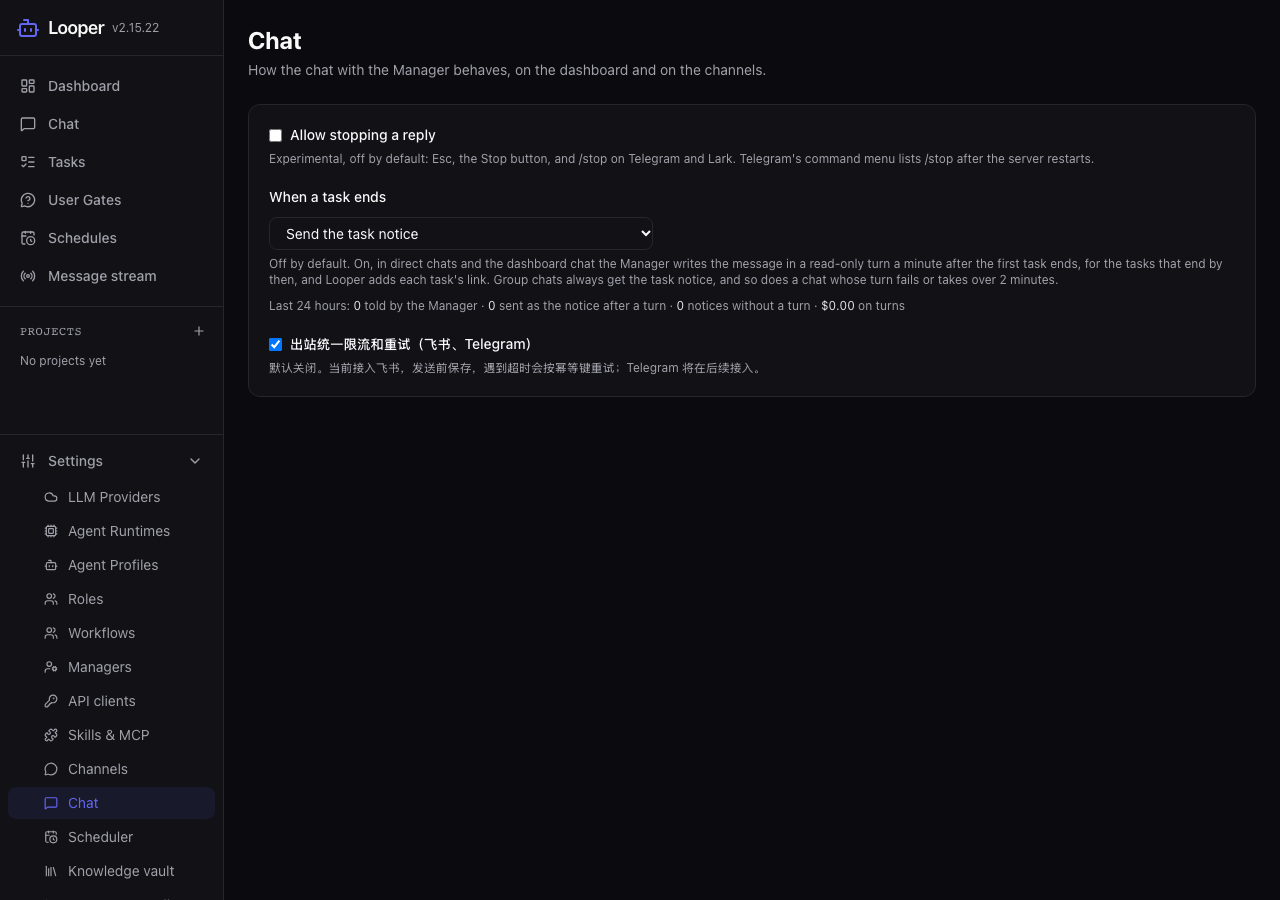
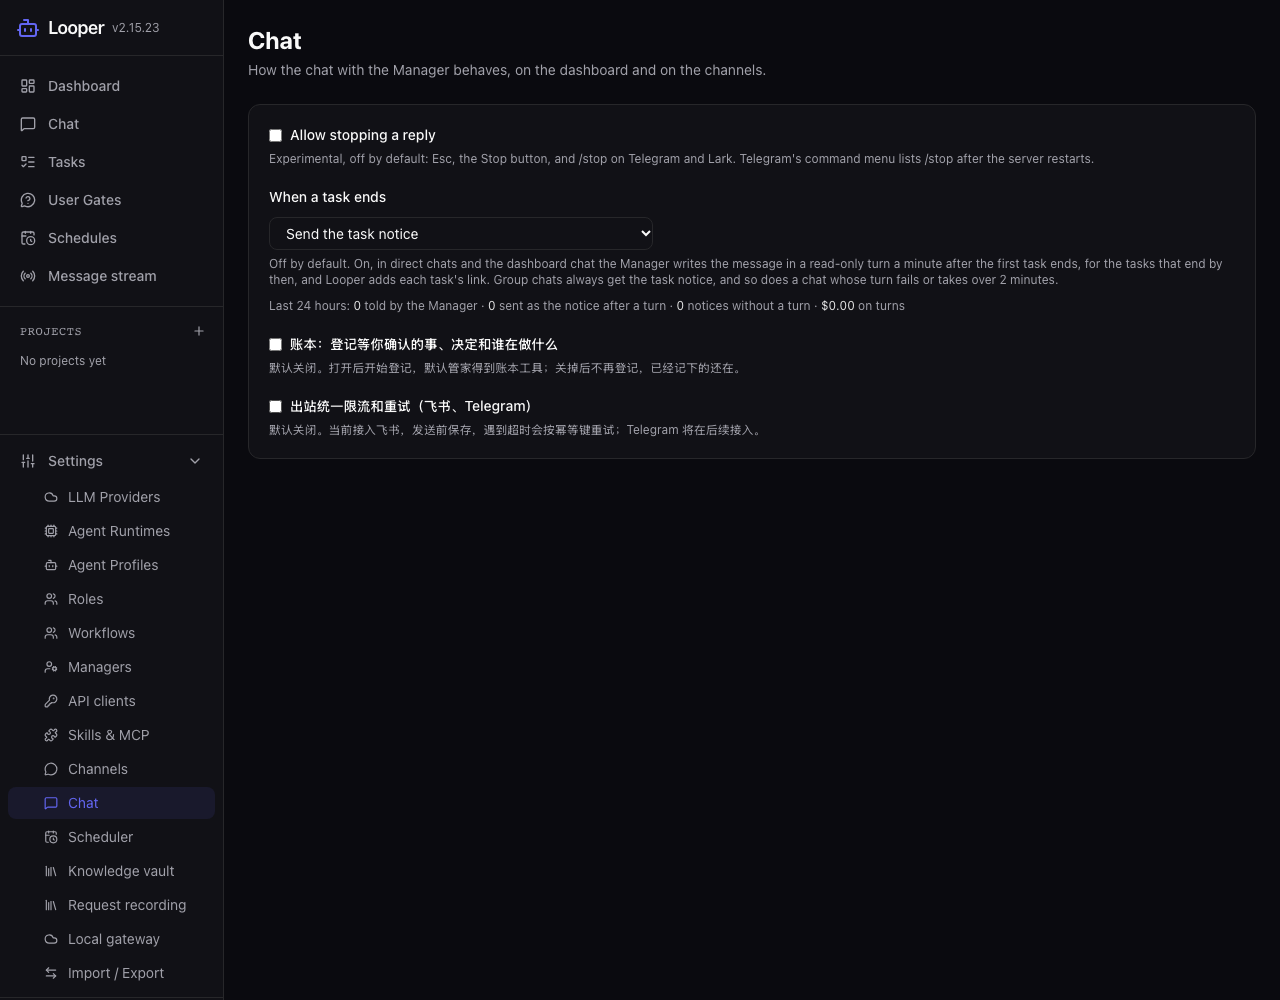
Document isolated gateway controls and validation

diff --git a/docs/validation/outbound/README.md b/docs/validation/outbound/README.md
@@ -1,0 +1,64 @@
+# Outbound gateway validation
+
+The gateway controls use the operator-only `outbound_gateway.get/update` operations.
+`chat_settings` keeps the same view, accepted fields and write behavior as `main`
+(`2b77afb16`). The update operation declares high risk and confirmation; its summary
+is under 120 characters and starts its description. Existing Manager tools remain
+unchanged, so this correction changes no model-visible content.
+
+## Regression checks
+
+All Python commands used `uv run --system-certs --extra test python -m pytest -q -n 2`
+and ran in the foreground. Database checks used disposable PostgreSQL databases.
+
+| Group | Result |
+| --- | --- |
+| `test_delivery_guard_settings.py`, `test_api_v1_document.py`, `test_outbound_settings.py` | 332 passed |
+| Other PR-touched Python test files | 336 passed, 1 failed initially; the failed scanner assertion was corrected and its whole file passed (4 tests) |
+| `test_chat_settings_db.py` final readback after the correction | 5 passed |
+| `test_lark_cli_commands.py` | 56 passed on the PR and 56 passed on `main` |
+| `web/src/components/chat-settings.test.tsx` | 9 passed |
+| Production frontend build, Ruff on changed Python files, whitespace check | Passed |
+
+Across the final file versions, 725 distinct Python tests passed. The scanner test
+previously bounded all scans during 20 concurrent registrations, which may wake
+legitimate scans. It now waits until the scanner sleeps with no workers or pending
+wake, then checks that its scan count remains unchanged while idle. It still checks
+that waiters perform at most one race-closing read each, plus the delivery read.
+
+The earlier attachment-download 10-second timeout did not reproduce. The targeted
+attachment tests passed on both branches (7 each), as did their entire file. The
+10-second `asyncio.wait_for` wrapper is identical on both branches. These results
+do not establish that either branch has a timeout defect.
+
+## Real service and browser
+
+A source-checkout `looper serve`, an empty disposable database and a throwaway
+runtime root served the production frontend. No messages were sent and no model
+calls were made. At widths 1280 and 390, headless Chromium verified:
+
+- The outbound switch changes only `outbound_gateway`, with stored values read back.
+- An ordinary chat settings write preserves the enabled gateway and returns exactly
+  the original chat fields.
+- Numeric settings update and null reset work through the operator API.
+- A mixed chat/outbound write is rejected atomically.
+- A failed gateway read displays an error and retry action while other chat controls
+  remain usable; retry restores the switch.
+- Keyboard focus remains reachable and the page has no horizontal overflow or
+  uncaught JavaScript errors.
+
+The existing controls and layout are retained. The switch uses separate API state;
+its error and retry appear only when that API fails. Numeric tuning remains in the
+operator API/CLI. Telegram/Lark chat commands need no new configuration command.
+
+| Viewport | Current screenshot |
+| --- | --- |
+| 1280 × 1000 | [Desktop](settings-desktop.png) |
+| 390 × 1000 | [Mobile](settings-mobile.png) |
+
+For comparison, the previous screenshots are available at
+[`db479d220`](https://github.com/foolzzz/looper/tree/db479d220/docs/validation/outbound).
+
+Full-suite CI, PostgreSQL 18, real-platform rate limits, deduplication and Telegram
+outbound wiring remain outside this local validation. Disposable databases and the
+service process were cleaned up after the checks.

diff --git a/docs/architecture/agent-system.md b/docs/architecture/agent-system.md
@@ -7421,14 +7421,20 @@ implementation supplies it and is retested.
   attachment paths, including filenames with spaces and Unicode. Dashboard
   turns with attachments show the final answer without streaming text deltas,
   so a path split across chunks cannot escape redaction. With `channels.outbound.enabled` off (the default),
-  both Lark transports retain their original calls and write no outbox rows. Settings → Chat exposes
-  `outbound_enabled`; only the operator can change it. On, `GatedLarkTransport` routes every write through
+  both Lark transports retain their original calls and write no outbox rows. Settings → Chat reads and updates
+  `outbound_enabled` through the separate operator-only `outbound_gateway.get/update` operations; the existing
+  `chat_settings` response fields, accepted writes and Manager tools remain unchanged. Gateway updates are
+  high-risk operations with confirmation for callers that require it; null restores each field's default.
+  On, `GatedLarkTransport` routes every write through
   one gateway per channel: separate send/reply and total-write token buckets (defaults 5/s and 15/s),
   at most four platform calls in flight, classified errors, up to five retries with jitter and
   `retry_after`, a 60-second circuit breaker after five consecutive failures in 30 seconds, and coalesced
-  edits at least one second apart. The operator-only `outbound_settings.get/update` operations expose
+  edits at least one second apart. The same `outbound_gateway.get/update` operations also expose
   `send_qps`, `write_qps`, `edit_interval_seconds` and `max_in_flight` (integer 1–32). Rate and edit
-  defaults remain **to verify** against the real platform. Answers, progress, notices, notifications and posts first enter
+  defaults remain **to verify** against the real platform. The Settings switch uses its own request and error
+  state, so an unavailable gateway API does not block other chat controls. Numeric tuning is available through
+  the operator v1 API and its generated CLI; Telegram/Lark chat commands and Manager tools do not configure
+  the gateway. Answers, progress, notices, notifications and posts first enter
   `channel_outbox`, ordered per chat and concurrent across chats. Caller keys win; otherwise envelope ids
   and part numbers derive stable keys. Keyed timeout retries and restart recovery within one hour use the
   same key; older interrupted sends become `uncertain`. Callers wait at most 30 seconds for a receipt,
